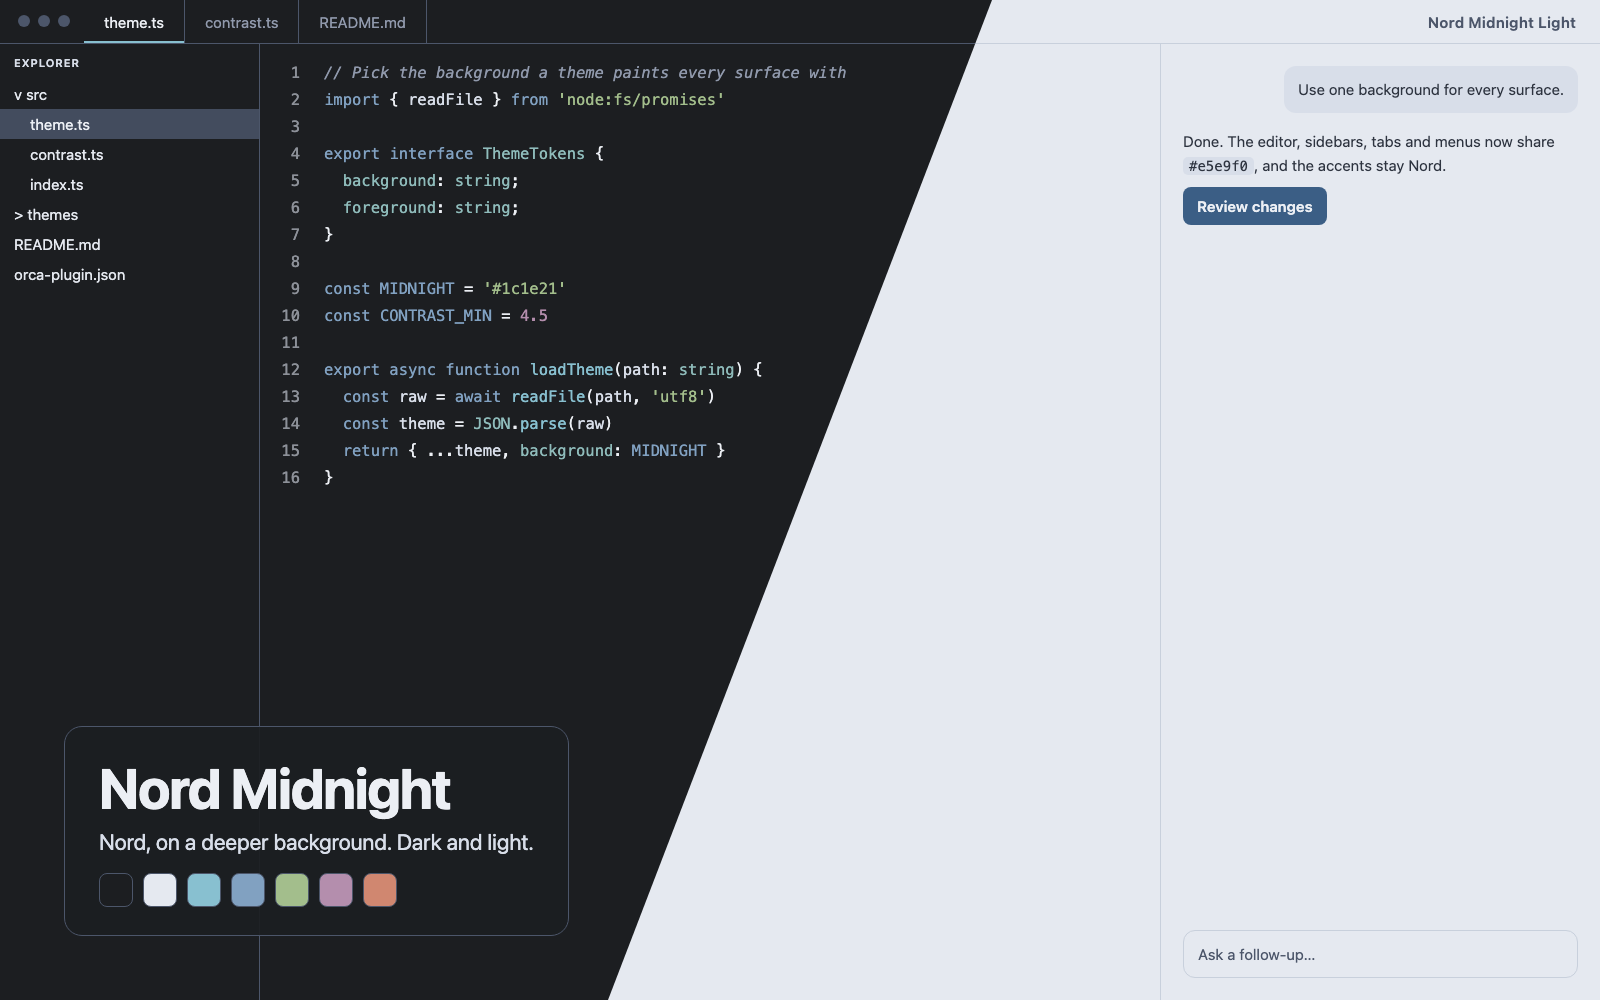
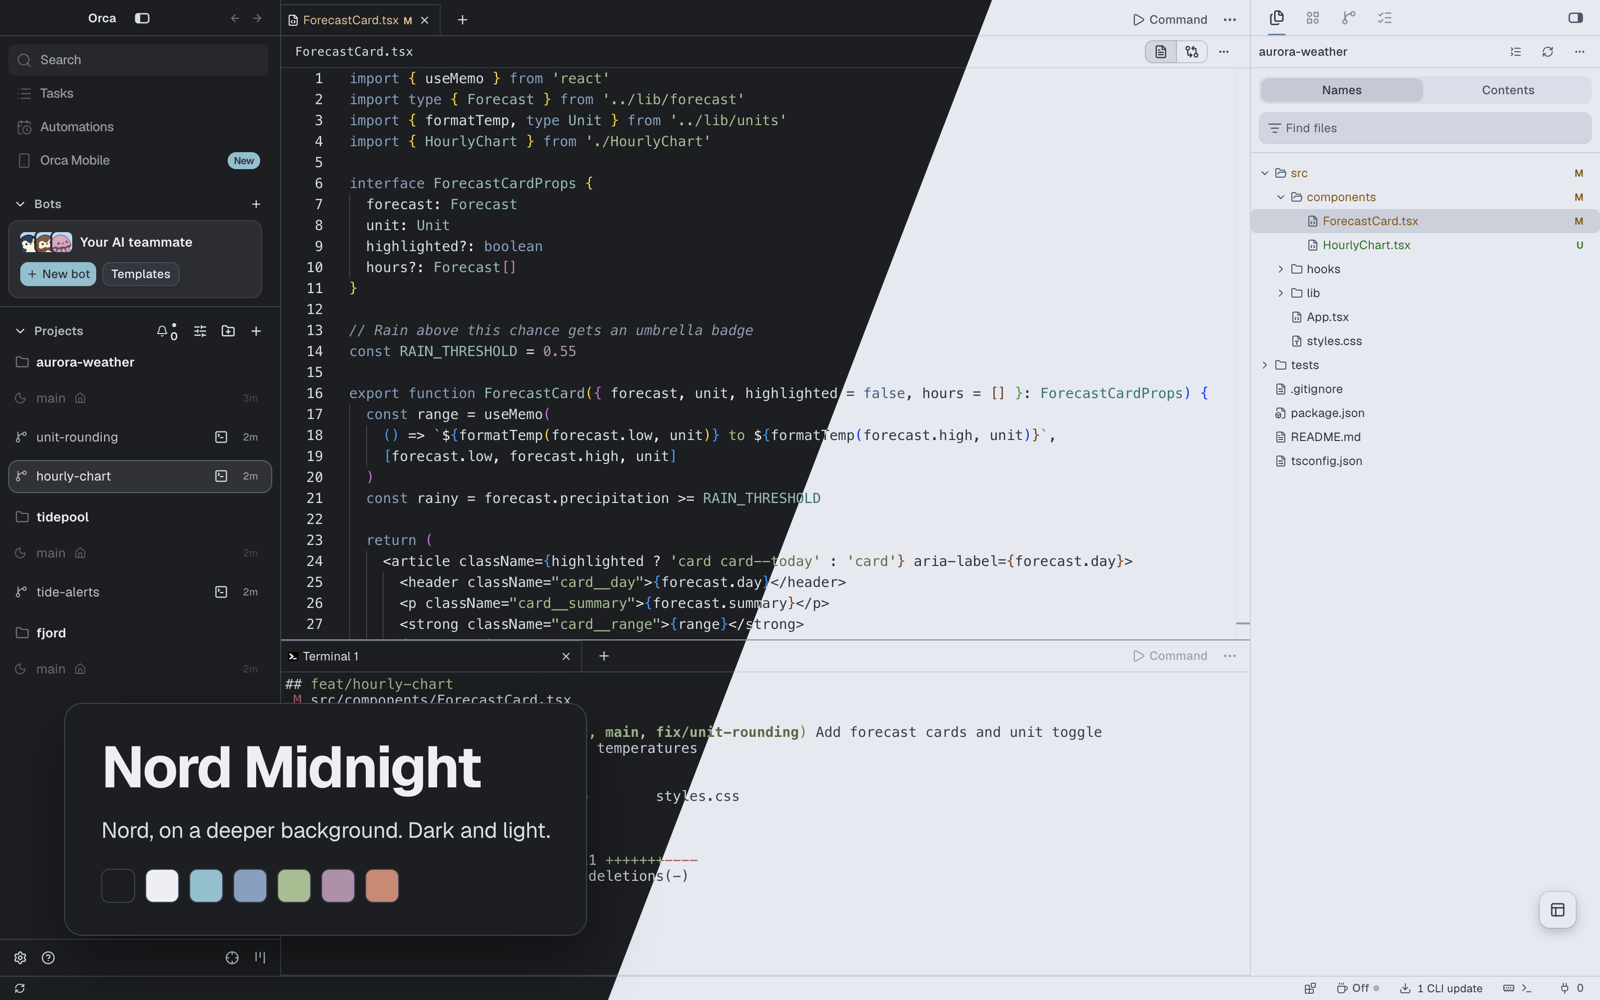
Replace mockup previews with real Orca screenshots
The cover and both screenshots were hand-drawn mockups. They are now
captured from Orca itself, in a separate profile seeded with sample
projects (aurora-weather, tidepool, fjord) and worktrees, so the images
show what the theme actually paints: the project sidebar, a TypeScript
file with uncommitted changes, a terminal with colored git output and
the file tree, in both Nord Midnight and Nord Midnight Light.

Screenshots are 2560x1600 and the cover keeps the diagonal dark and
light split at 1600x1000, all within the plugin page's size limits.
Alt text now describes the new content. Bumps to 1.4.2.

diff --git a/README.md b/README.md
@@ -15,11 +15,11 @@ Each theme comes with matching terminal colors.
 
 **Nord Midnight**
 
-![Nord Midnight on the editor, file tree, tabs and chat](images/dark.png)
+![Nord Midnight in Orca: the project sidebar, a TypeScript file, a terminal with git output and the file tree](images/dark.png)
 
 **Nord Midnight Light**
 
-![Nord Midnight Light on the editor, file tree, tabs and chat](images/light.png)
+![Nord Midnight Light in Orca: the project sidebar, a TypeScript file, a terminal with git output and the file tree](images/light.png)
 
 ## Install
 
